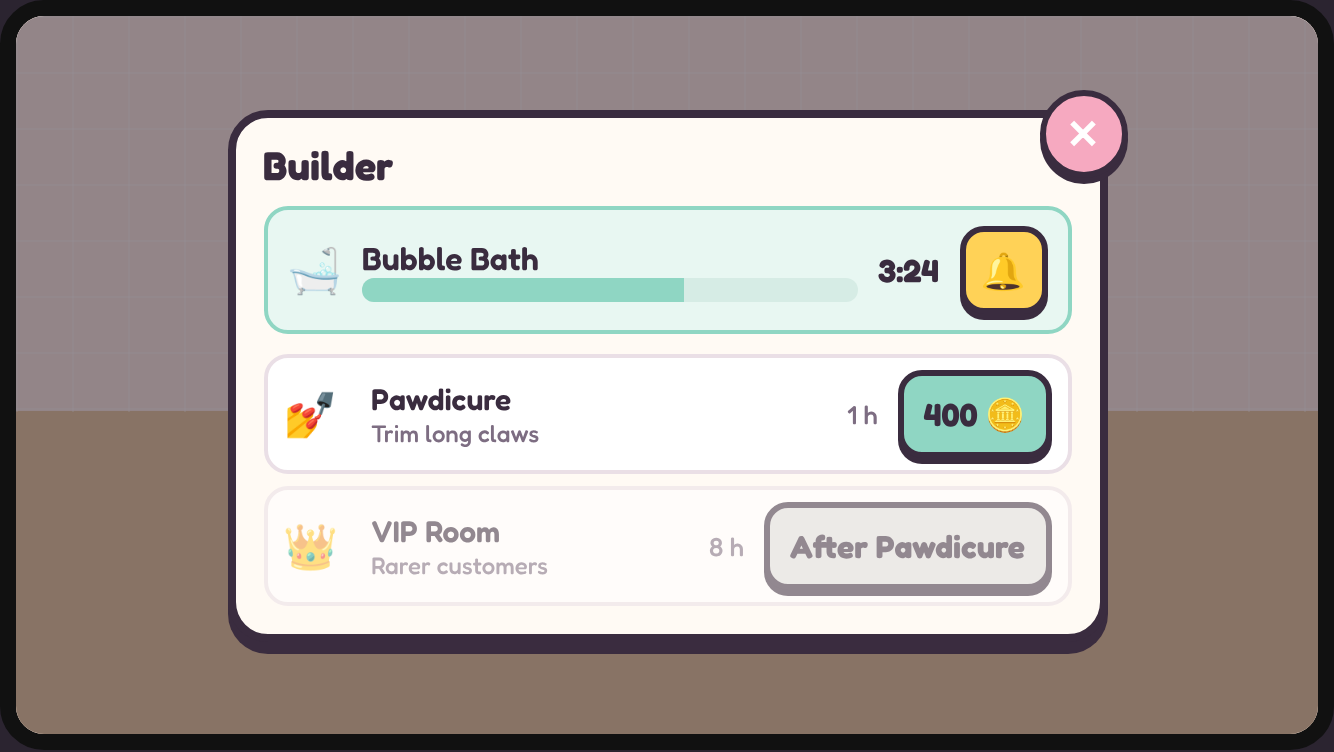
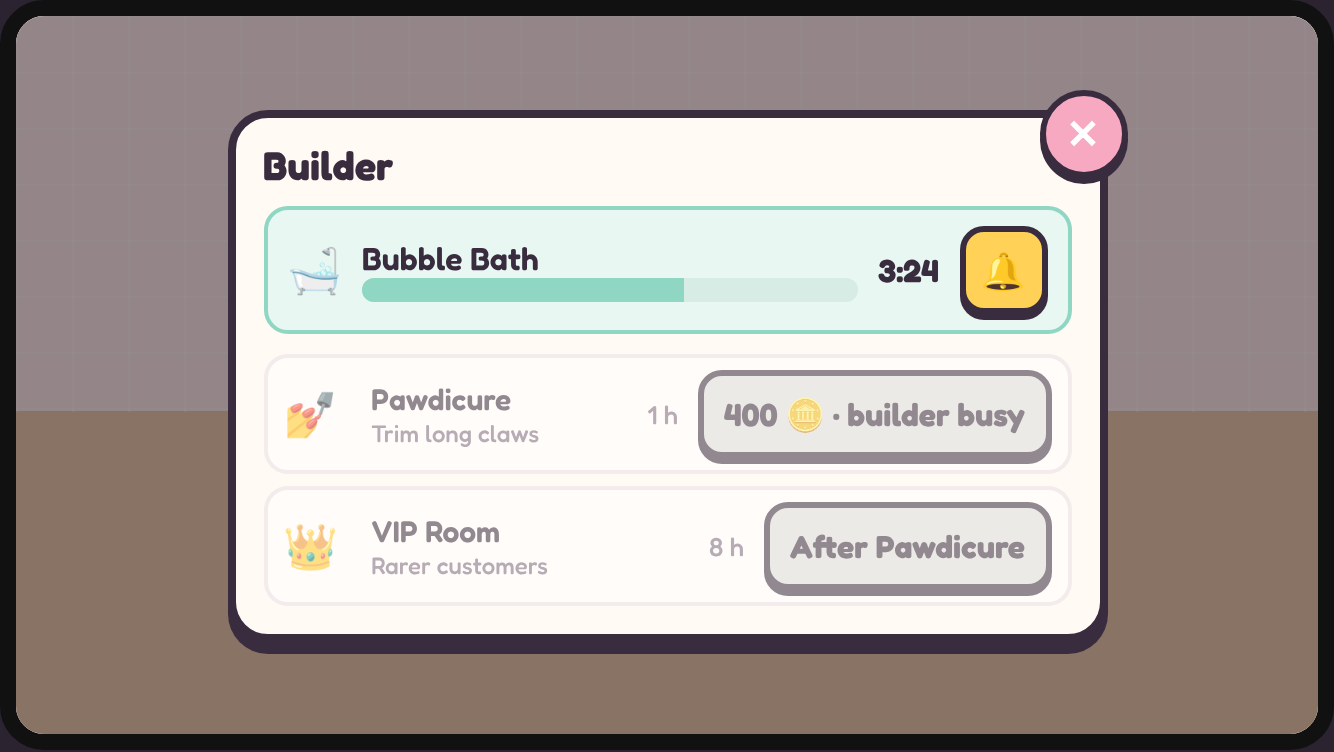
HUD mockup: Review-QA notes (builder busy, clearer wording, button spacing)
Claude-Session: https://claude.ai/code/session_01DW2up2CqfSnWTuFaCPQ7D7

Changed region(s): [[0.5225, 0.4894, 0.7991, 0.6423], [0.2766, 0.5199, 0.3996, 0.6117], [0.2151, 0.5199, 0.2459, 0.5811]]

diff --git a/assets/clean-a-cat/ui/hud.html b/assets/clean-a-cat/ui/hud.html
@@ -79,7 +79,7 @@ p.lead { margin: 0 0 24px; color: #cfc4d6; max-width: 760px; line-height: 1.4; }
 .ic.star { background: var(--lilac); border-radius: 4px; transform: rotate(45deg) scale(.8); }
 
 /* Side buttons: the only things that look like buttons */
-.side { position: absolute; left: 12px; top: 50%; transform: translateY(-50%); display: flex; flex-direction: column; gap: 10px; }
+.side { position: absolute; left: 12px; top: 50%; transform: translateY(-50%); display: flex; flex-direction: column; gap: 24px; }
 .btn { width: 56px; height: 56px; border-radius: 50%; background: var(--white); border: 3px solid var(--ink);
   box-shadow: 0 4px 0 var(--ink); display: grid; place-items: center; font-size: 24px; position: relative; }
 .btn .lbl { position: absolute; bottom: -15px; font-size: 11px; font-weight: 700; color: #fff; text-shadow: var(--outline); }
@@ -149,8 +149,8 @@ p.lead { margin: 0 0 24px; color: #cfc4d6; max-width: 760px; line-height: 1.4; }
       <div class="needs"><div class="need">🧽</div><div class="need done">✓</div><div class="need locked">💨</div></div>
     </div>
     <div class="safe-top">Roblox menu</div>
-    <div class="goal">Build the Dryer <small>75</small></div>
-    <div class="leave">Leave</div>
+    <div class="goal">Next: build the Dryer <small>(75 coins)</small></div>
+    <div class="leave">Stop washing</div>
     <div class="money"><div class="row">48 <span class="ic coin"></span></div><div class="row s">3 <span class="ic star"></span></div></div>
     <div class="side">
       <div class="btn">🔨<div class="ring"></div><div class="lbl">Build</div></div>
@@ -192,12 +192,12 @@ p.lead { margin: 0 0 24px; color: #cfc4d6; max-width: 760px; line-height: 1.4; }
       <h3>Builder</h3>
       <div class="build-now"><span style="font-size:22px">🛁</span><div style="flex:1"><div style="font-weight:600">Bubble Bath</div><div class="bar"><i></i></div></div><div style="font-weight:700">3:24</div><div class="bell" title="Tell me when it's done">🔔</div></div>
       <div class="list">
-        <div class="item"><span style="font-size:22px">💅</span><div><div class="t">Pawdicure</div><div class="d">Trim long claws</div></div><span class="time">1 h</span><div class="buy">400 🪙</div></div>
+        <div class="item lockd"><span style="font-size:22px">💅</span><div><div class="t">Pawdicure</div><div class="d">Trim long claws</div></div><span class="time">1 h</span><div class="buy">400 🪙 · builder busy</div></div>
         <div class="item lockd"><span style="font-size:22px">👑</span><div><div class="t">VIP Room</div><div class="d">Rarer customers</div></div><span class="time">8 h</span><div class="buy">After Pawdicure</div></div>
       </div>
     </div>
   </div>
-  <p class="cap">One build at a time with its countdown. The bell asks for a notification only when tapped, so no prompt opens by itself; it shows only to players who can get personal notifications. No timers to buy, no discount tags. Prices beyond the dryer are placeholders.</p>
+  <p class="cap">One build at a time: while the Bubble Bath builds, the next build shows its price but stays greyed with "builder busy". The bell asks for a notification only when tapped, so no prompt opens by itself; it shows only to players who can get personal notifications. No timers to buy, no discount tags. Prices beyond the dryer are placeholders.</p>
 </div>
 
 <div class="frame-wrap">
@@ -212,7 +212,7 @@ p.lead { margin: 0 0 24px; color: #cfc4d6; max-width: 760px; line-height: 1.4; }
     </div>
     <div class="safe-top">Roblox menu</div>
     <div class="goal" style="top:52px;font-size:17px">Clean a customer's cat</div>
-    <div class="leave" style="top:82px">Leave</div>
+    <div class="leave" style="top:82px">Stop washing</div>
     <div class="money"><div class="row">12 <span class="ic coin"></span></div><div class="row s">1 <span class="ic star"></span></div></div>
     <div class="side" style="top:auto;bottom:100px;transform:none"><div class="btn">🔨<div class="lbl">Build</div></div><div class="btn">📖<div class="lbl">Index</div></div></div>
     <div class="hotbar" style="bottom:22px">
